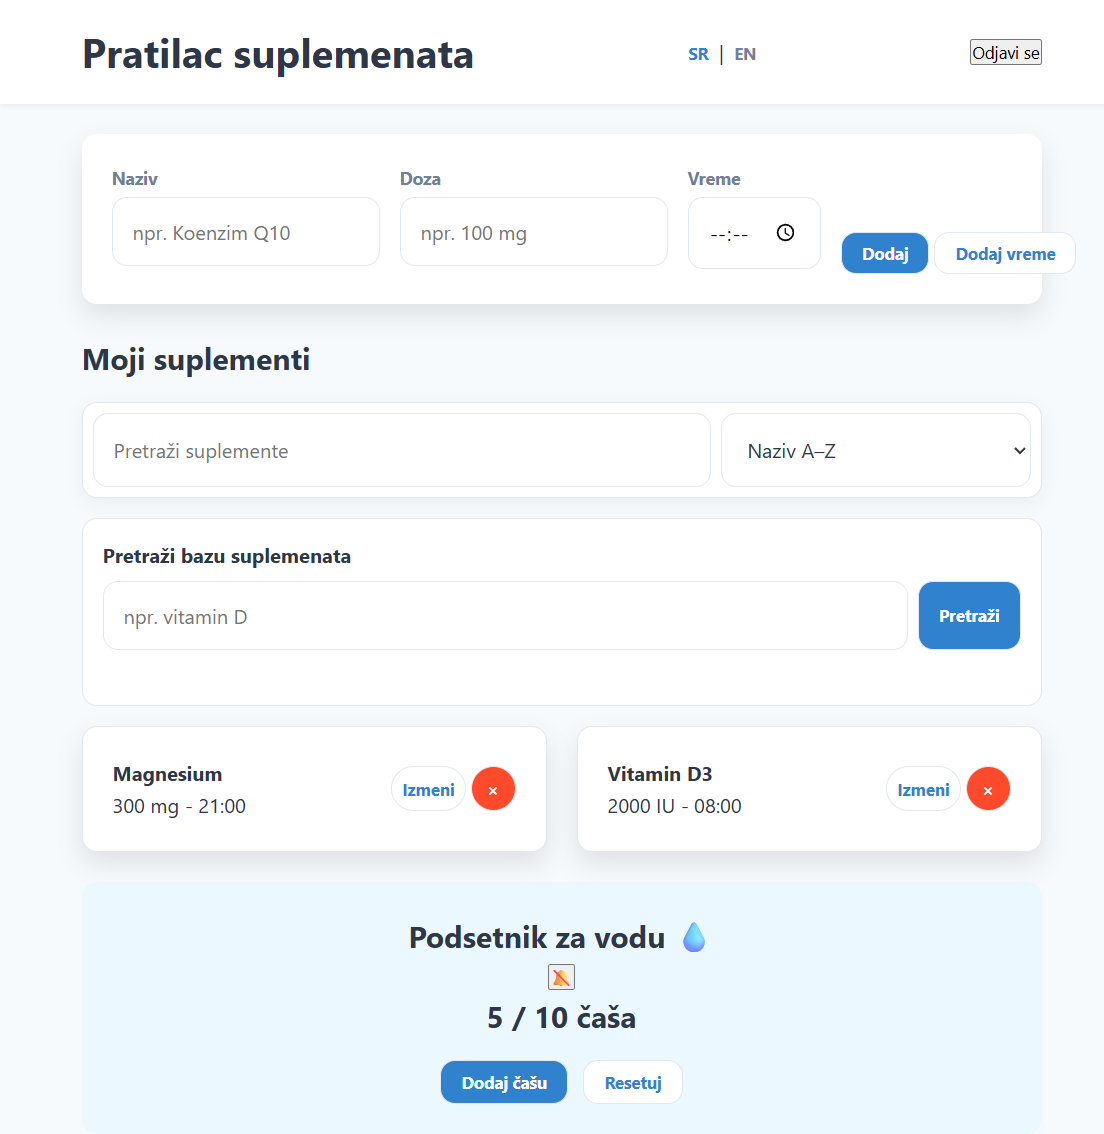
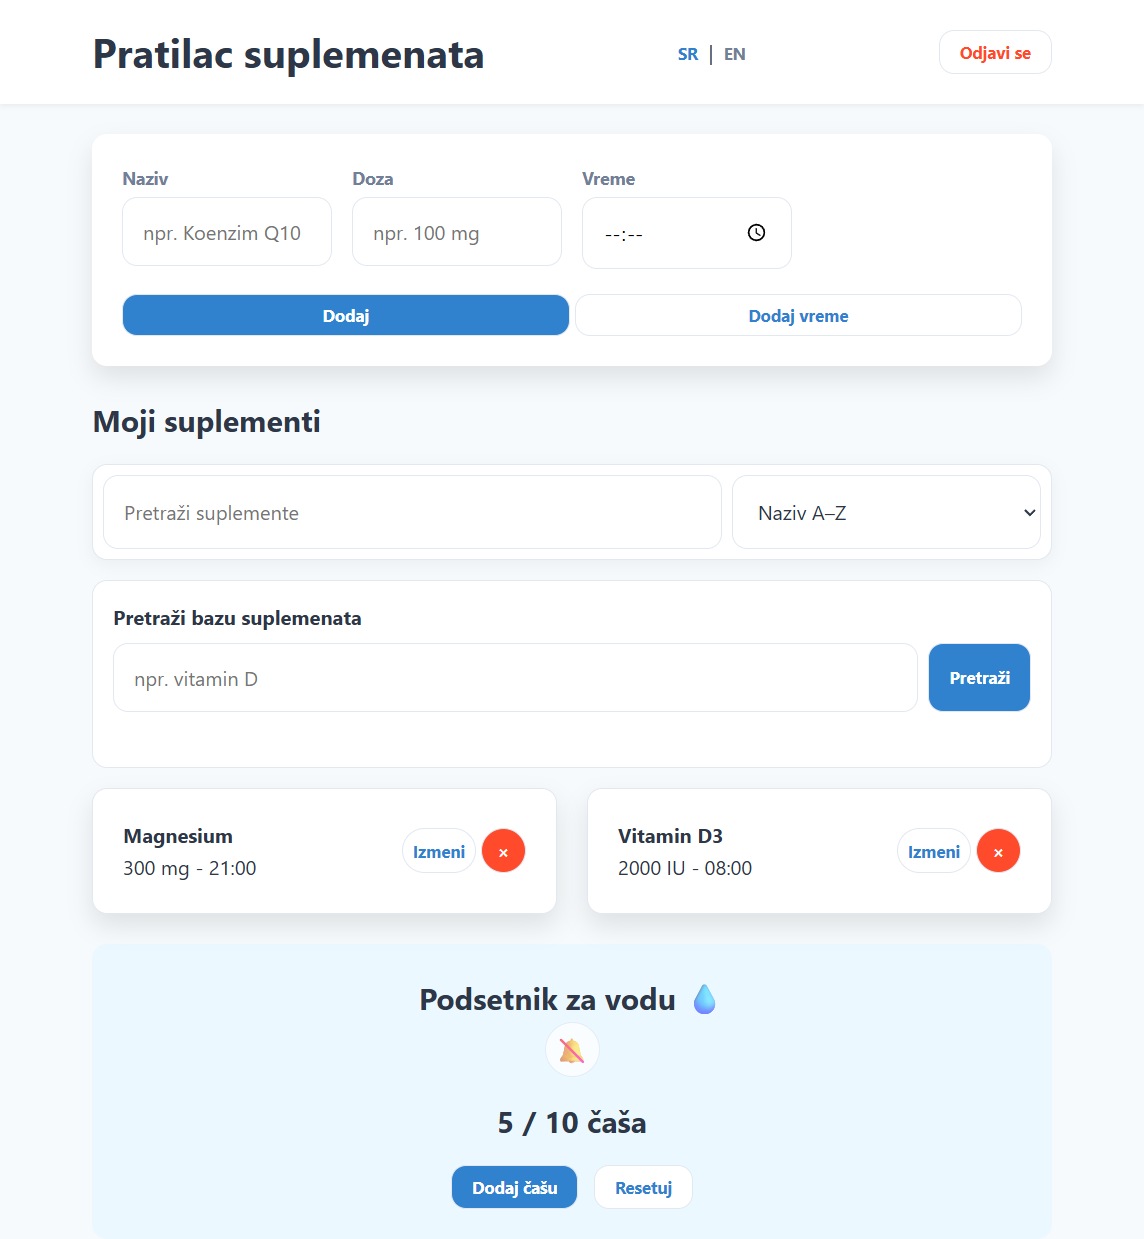
feat: update project previews and Moj Motivator i18n
Update Supplement Tracker and Moj Motivator project previews. Add Serbian/English language support to the Moj Motivator portfolio card and improve project accordion semantics.

diff --git a/index.html b/index.html
@@ -184,23 +184,25 @@
         </h2>
         <div class="projects-list">
           <article class="project-item">
-            <button
-              class="project-header"
-              type="button"
-              aria-expanded="false"
-              aria-controls="project-content-moj-motivator"
-              onclick="toggleProject(this)"
-            >
-              <div>
+            <h3 class="project-title">
+              <button
+                class="project-header"
+                type="button"
+                aria-expanded="false"
+                aria-controls="project-content-moj-motivator"
+                onclick="toggleProject(this)"
+              >
+                <span>
                 <span
                   class="project-category"
                   data-i18n="projects.motivator.category"
                   >Web aplikacija</span
                 >
-                <h3>Moj Motivator</h3>
-              </div>
-              <span class="toggle-arrow" aria-hidden="true">▼</span>
-            </button>
+                  <span class="project-name">Moj Motivator</span>
+                </span>
+                <span class="toggle-arrow" aria-hidden="true">▼</span>
+              </button>
+            </h3>
             <div class="project-content" id="project-content-moj-motivator">
               <img
                 src="images/projects/moj-motivator.png"
@@ -233,8 +235,8 @@
                   >
                   <span data-i18n="projects.motivator.features"
                     >Generator poruka, CRUD za lične poruke, favoriti, svetla i
-                    tamna tema, toast povratne informacije i podrška za
-                    pristupačnost.</span
+                    tamna tema, srpski/engleski interfejs, toast povratne informacije
+                    i podrška za pristupačnost.</span
                   >
                 </li>
               </ul>
@@ -259,23 +261,25 @@
           </article>
 
           <article class="project-item">
-            <button
-              class="project-header"
-              type="button"
-              aria-expanded="false"
-              aria-controls="project-content-supplement-tracker"
-              onclick="toggleProject(this)"
-            >
-              <div>
+            <h3 class="project-title">
+              <button
+                class="project-header"
+                type="button"
+                aria-expanded="false"
+                aria-controls="project-content-supplement-tracker"
+                onclick="toggleProject(this)"
+              >
+                <span>
                 <span
                   class="project-category"
                   data-i18n="projects.supplement.category"
                   >Web aplikacija / zdravlje</span
                 >
-                <h3>Supplement Tracker</h3>
-              </div>
-              <span class="toggle-arrow" aria-hidden="true">▼</span>
-            </button>
+                  <span class="project-name">Supplement Tracker</span>
+                </span>
+                <span class="toggle-arrow" aria-hidden="true">▼</span>
+              </button>
+            </h3>
             <div
               class="project-content"
               id="project-content-supplement-tracker"
@@ -336,23 +340,25 @@
           </article>
 
           <article class="project-item">
-            <button
-              class="project-header"
-              type="button"
-              aria-expanded="false"
-              aria-controls="project-content-labcalc"
-              onclick="toggleProject(this)"
-            >
-              <div>
+            <h3 class="project-title">
+              <button
+                class="project-header"
+                type="button"
+                aria-expanded="false"
+                aria-controls="project-content-labcalc"
+                onclick="toggleProject(this)"
+              >
+                <span>
                 <span
                   class="project-category"
                   data-i18n="projects.labcalc.category"
                   >Web aplikacija / laboratorijski alati</span
                 >
-                <h3>LabCalc</h3>
-              </div>
-              <span class="toggle-arrow" aria-hidden="true">▼</span>
-            </button>
+                  <span class="project-name">LabCalc</span>
+                </span>
+                <span class="toggle-arrow" aria-hidden="true">▼</span>
+              </button>
+            </h3>
             <div class="project-content" id="project-content-labcalc">
               <img
                 src="images/projects/lab-calc.png"

diff --git a/js/main.js b/js/main.js
@@ -39,7 +39,7 @@ const translations = {
     "projects.motivator.tech":
       "HTML, CSS, JavaScript, Jest, LocalStorage, Lucide Icons.",
     "projects.motivator.features":
-      "Generator poruka, CRUD za lične poruke, favoriti, svetla i tamna tema, toast povratne informacije i podrška za pristupačnost.",
+      "Generator poruka, CRUD za lične poruke, favoriti, svetla i tamna tema, srpski/engleski interfejs, toast povratne informacije i podrška za pristupačnost.",
     "projects.supplement.category": "Web aplikacija / zdravlje",
     "projects.supplement.imageAlt": "Prikaz aplikacije Supplement Tracker",
     "projects.supplement.description":
@@ -118,7 +118,7 @@ const translations = {
     "projects.motivator.tech":
       "HTML, CSS, JavaScript, Jest, LocalStorage, Lucide Icons.",
     "projects.motivator.features":
-      "Message generator, custom message CRUD, favourites, light and dark theme, toast feedback, and accessibility support.",
+      "Message generator, custom message CRUD, favorites, light and dark theme, Serbian/English language support (i18n), toast feedback, and accessibility support.",
     "projects.supplement.category": "Web application / health",
     "projects.supplement.imageAlt": "Supplement Tracker application preview",
     "projects.supplement.description":
@@ -215,7 +215,7 @@ setLanguage(savedLanguage || document.documentElement.lang);
  */
 const toggleProject = (buttonElement) => {
   // Select the parent project article element
-  const currentItem = buttonElement.parentElement;
+  const currentItem = buttonElement.closest(".project-item");
 
   // Check if the clicked project is already expanded
   const isActive = currentItem.classList.contains("active");

diff --git a/css/style.css b/css/style.css
@@ -296,6 +296,10 @@ summary:focus-visible {
   text-align: left;
 }
 
+.project-title {
+  margin: 0;
+}
+
 .project-header:hover {
   background: rgba(45, 139, 90, 0.03);
 }
